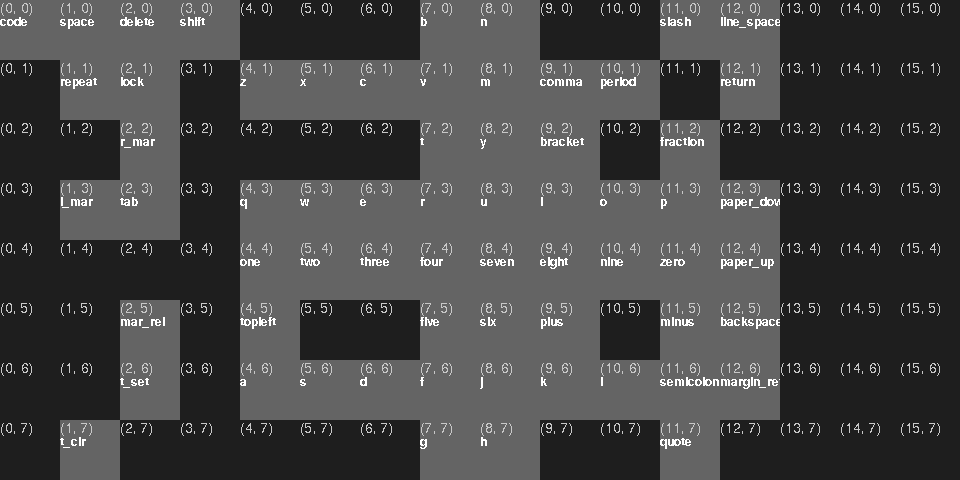
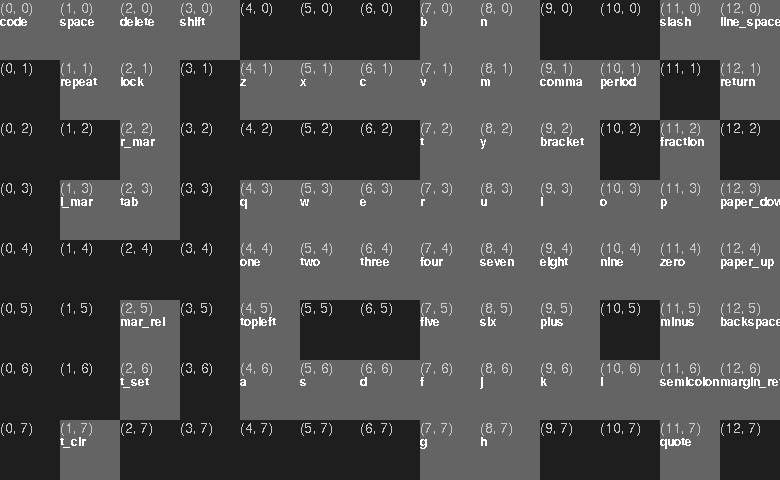
misc

diff --git a/raw_matrix/display.py b/raw_matrix/display.py
@@ -20,7 +20,7 @@ with serial.Serial("/dev/ttyACM0", 115200) as conn:
 	pygame.init()
 	fontb = pygame.font.SysFont("Arial", 12, True)
 	font = pygame.font.SysFont("Arial", 14, False)
-	screen = pygame.display.set_mode((WIDTH*SQUARE_SIZE, HEIGHT*SQUARE_SIZE))
+	screen = pygame.display.set_mode((13*SQUARE_SIZE, HEIGHT*SQUARE_SIZE))
 	run=1
 	while run:
 		screen.fill((0,0,0))
@@ -49,5 +49,5 @@ with serial.Serial("/dev/ttyACM0", 115200) as conn:
 			if e.type==pygame.KEYDOWN and e.key==pygame.K_q:
 				run=False
 		pygame.display.flip()
-		pygame.image.save(screen, "map.png")
-		run=False
+		# pygame.image.save(screen, "map.png")
+		# run=False
